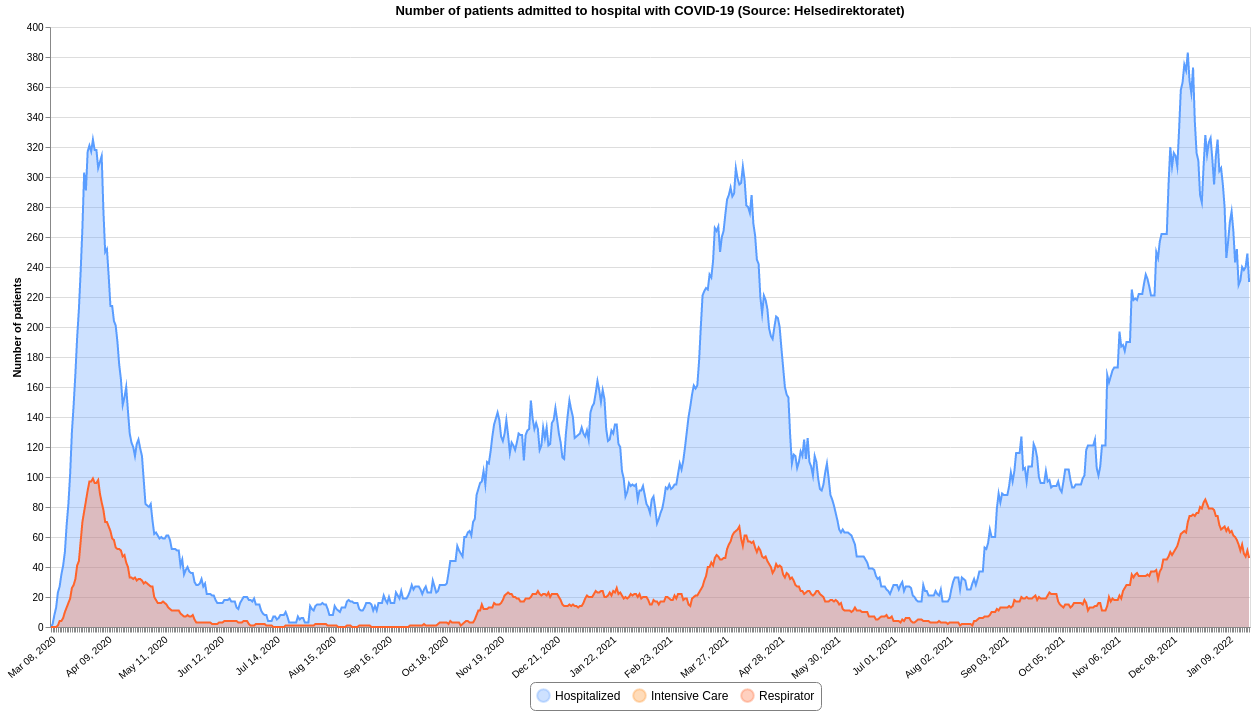
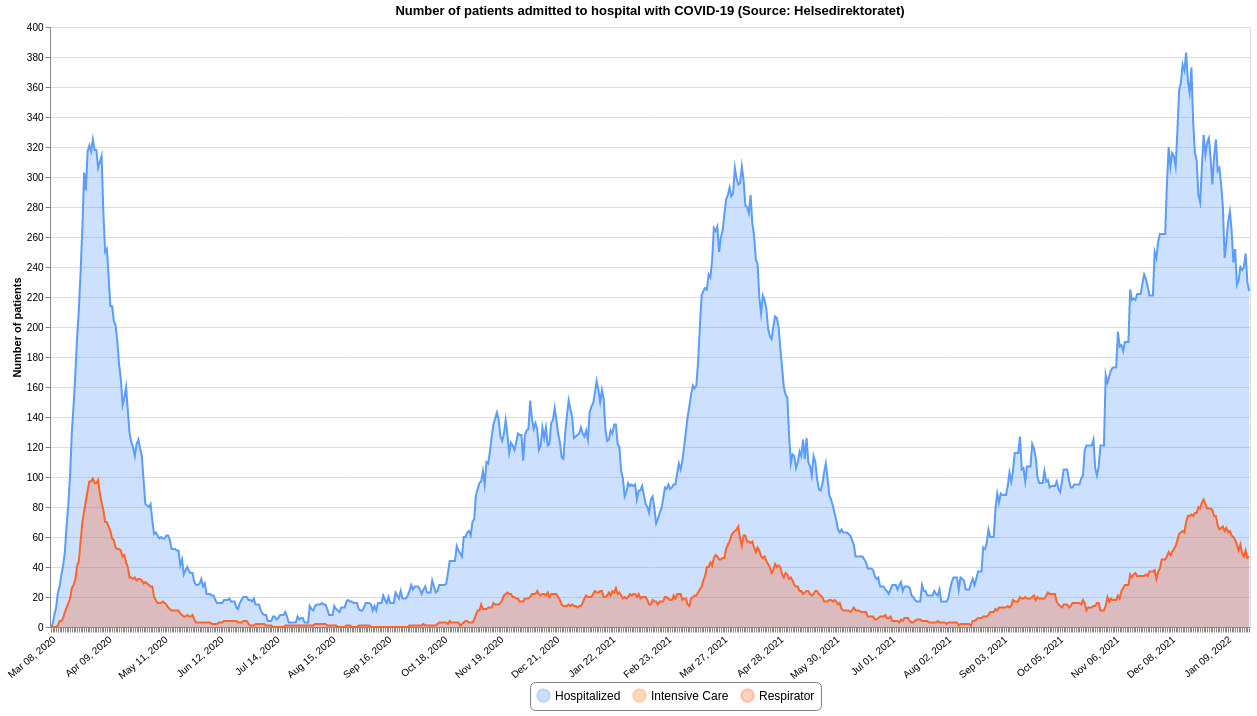
Updated 2022-01-22 12:20

diff --git a/README.md b/README.md
@@ -12,7 +12,7 @@ This repository contains datasets of daily time-series data related to COVID-19 
 | :--- | :--- | :--- | :--- | :--- |
 |[Confirmed](#confirmedcsv)|FHI / MSIS|2022-01-22 00:20:42+01:00|[<center>csv</center>](https://raw.githubusercontent.com/frefrik/covid19norge-data/main/data/confirmed.csv)|[<center>preview</center>](data/confirmed.csv)|
 |[Dead](#deadcsv)|FHI|2022-01-21 13:20:52+01:00|[<center>csv</center>](https://raw.githubusercontent.com/frefrik/covid19norge-data/main/data/dead.csv)|[<center>preview</center>](data/dead.csv)|
-|[Hospitalized](#hospitalizedcsv)|Helsedirektoratet|2022-01-21 13:50:49+01:00|[<center>csv</center>](https://raw.githubusercontent.com/frefrik/covid19norge-data/main/data/hospitalized.csv)|[<center>preview</center>](data/hospitalized.csv)|
+|[Hospitalized](#hospitalizedcsv)|Helsedirektoratet|2022-01-22 12:20:39+01:00|[<center>csv</center>](https://raw.githubusercontent.com/frefrik/covid19norge-data/main/data/hospitalized.csv)|[<center>preview</center>](data/hospitalized.csv)|
 |[Tested](#testedcsv)|FHI|2022-01-21 13:00:48+01:00|[<center>csv</center>](https://raw.githubusercontent.com/frefrik/covid19norge-data/main/data/tested.csv)|[<center>preview</center>](data/tested.csv)|
 |[Tested Lab](#tested_labcsv)|FHI|2022-01-21 16:10:52+01:00|[<center>csv</center>](https://raw.githubusercontent.com/frefrik/covid19norge-data/main/data/tested_lab.csv)|[<center>preview</center>](data/tested_lab.csv)|
 |[Transport](#transportcsv)|FHI|2021-09-24 23:10:46+02:00|[<center>csv</center>](https://raw.githubusercontent.com/frefrik/covid19norge-data/main/data/transport.csv)|[<center>preview</center>](data/transport.csv)|
